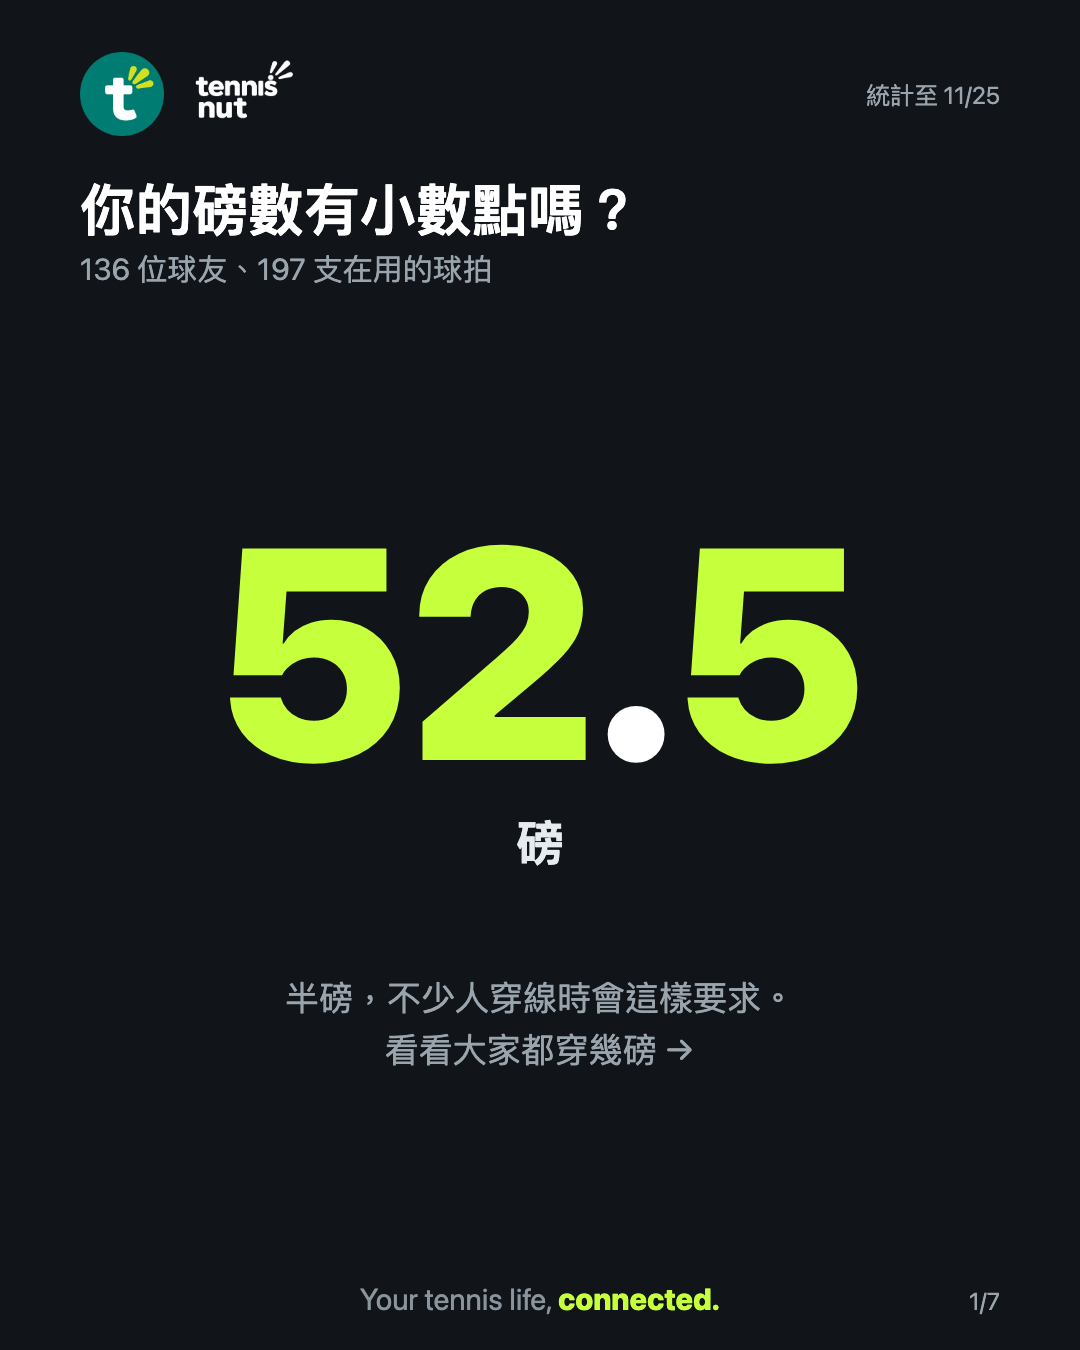
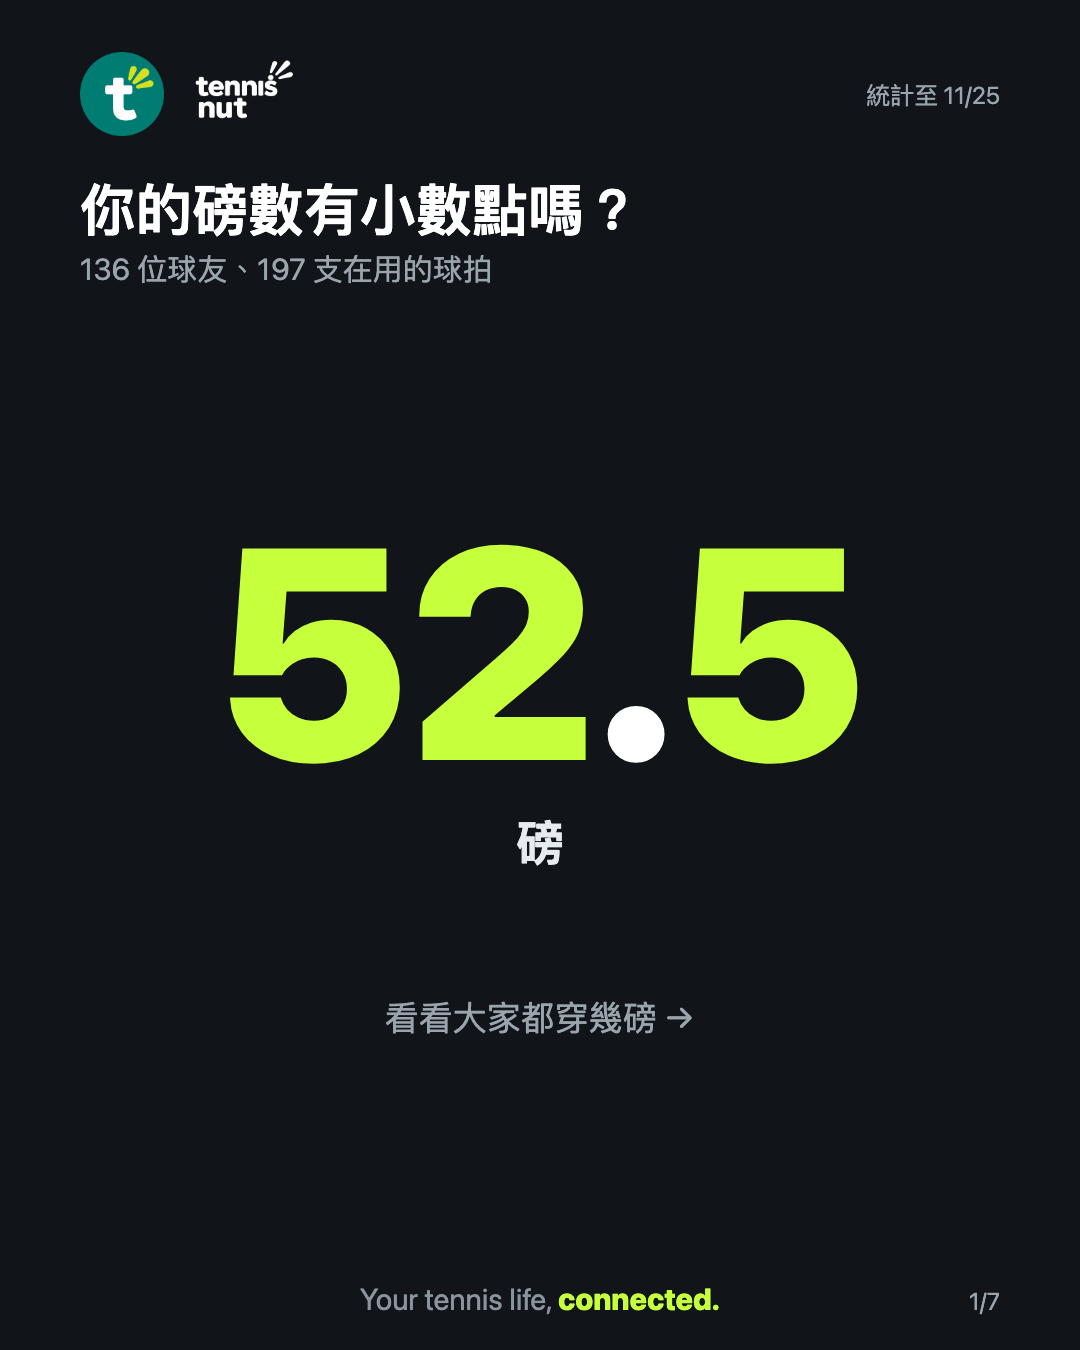
cards-ig-1125-tension: 封面拿掉「不少人穿線時會這樣要求」（沒有資料佐證）
Claude-Session: https://claude.ai/code/session_01FhLZvZNjbSftcCKJHrQPMS

Changed region(s): [[0.3361, 0.7156, 0.7028, 0.8089], [0.275, 0.7156, 0.3361, 0.7467]]

diff --git a/cards-ig-1125-tension/build.py b/cards-ig-1125-tension/build.py
@@ -21,8 +21,8 @@ def page(n):
 o = head('你的磅數有小數點嗎？', f'{S["players"]} 位球友、{S["rackets"]} 支在用的球拍', size=56)
 o += [f'<text x="540" y="760" font-size="300" font-weight="900" fill="{A}" text-anchor="middle">52<tspan fill="{T["title"]}">.</tspan>5</text>',
       f'<text x="540" y="860" font-size="48" font-weight="700" fill="{LBL}" text-anchor="middle">磅</text>',
-      f'<text x="540" y="1010" font-size="34" fill="{SUB}" text-anchor="middle">半磅，不少人穿線時會這樣要求。</text>',
-      f'<text x="540" y="1062" font-size="34" fill="{SUB}" text-anchor="middle">看看大家都穿幾磅 →</text>']
+      # 「不少人這樣要求」沒有資料佐證，拿掉（11-25 Kayson）
+      f'<text x="540" y="1030" font-size="34" fill="{SUB}" text-anchor="middle">看看大家都穿幾磅 →</text>']
 o += foot(); o.insert(-1, page(1)); save('1-cover', o)
 
 # 2 半磅的球友
